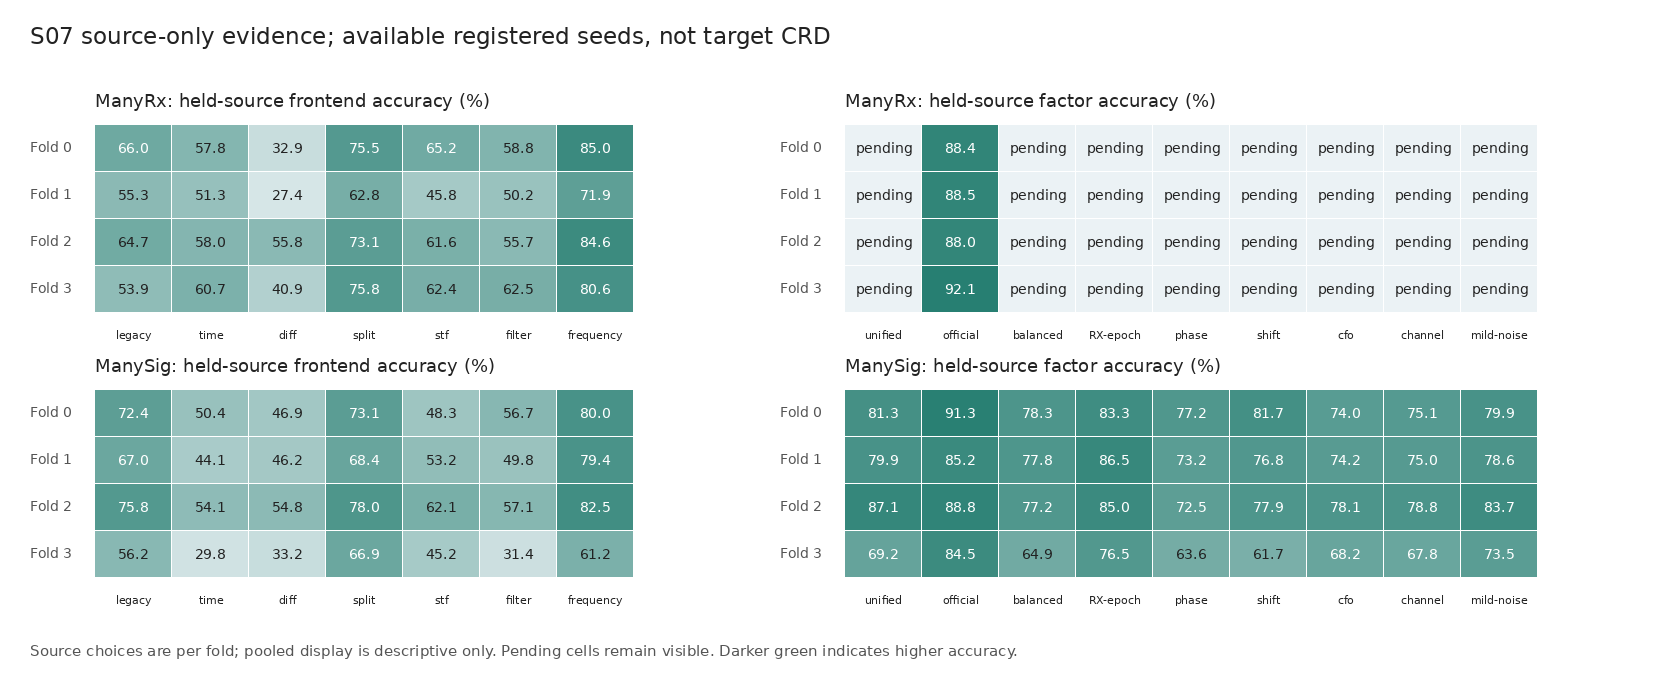
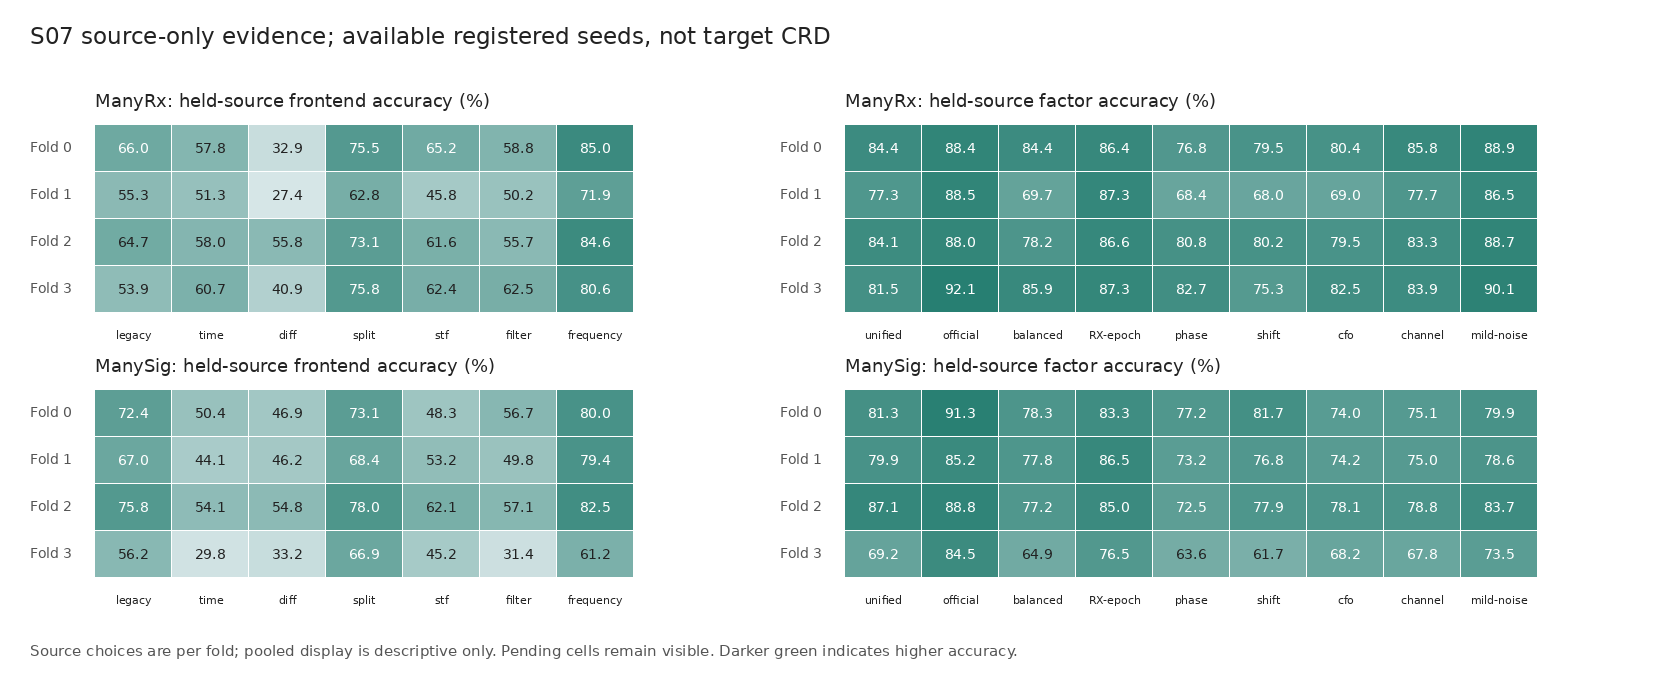
Record complete single-factor results and repeated recipe checks

Changed region(s): [[0.5837, 0.1853, 0.9524, 0.4632], [0.4916, 0.1853, 0.553, 0.4632]]

diff --git a/07-wifi-osu/S07_WIFI_TRAINING_RESULTS.md b/07-wifi-osu/S07_WIFI_TRAINING_RESULTS.md
@@ -1,15 +1,47 @@
 # S07_WIFI_TRAINING_RESULTS
 
-Completed 40/72 source fits. No new target RX metrics are used in this report.
+Completed 80/95 source fits. No new target RX metrics are used in this report.
 
 Fold-specific selections must only use that fold's legal source RX. The following table is descriptive, not a cross-fold selection rule.
 
 | Phase | Dataset | Fold | Seed | Frontend / factor | Packet val % | Held RX % | Worst RX % | Params |
 |---|---|---:|---:|---|---:|---:|---:|---:|
+| training | ManyRx | 0 | 3101 | frequency / unified | 94.48 | 84.40 | 69.56 | 90680 |
 | training | ManyRx | 0 | 3101 | frequency / official | 93.58 | 88.40 | 75.67 | 90680 |
+| training | ManyRx | 0 | 3101 | frequency / balanced | 94.33 | 84.38 | 67.78 | 90680 |
+| training | ManyRx | 0 | 3101 | frequency / held_epoch | 92.35 | 86.42 | 71.33 | 90680 |
+| training | ManyRx | 0 | 3101 | frequency / phase | 95.32 | 76.77 | 67.22 | 90680 |
+| training | ManyRx | 0 | 3101 | frequency / shift | 94.98 | 79.50 | 65.94 | 90680 |
+| training | ManyRx | 0 | 3101 | frequency / cfo | 94.72 | 80.38 | 65.72 | 90680 |
+| training | ManyRx | 0 | 3101 | frequency / channel | 94.16 | 85.83 | 73.17 | 90680 |
+| training | ManyRx | 0 | 3101 | frequency / mild_noise | 94.27 | 88.86 | 76.33 | 90680 |
+| training | ManyRx | 1 | 3101 | frequency / unified | 99.11 | 77.27 | 64.11 | 90680 |
 | training | ManyRx | 1 | 3101 | frequency / official | 97.79 | 88.53 | 75.83 | 90680 |
+| training | ManyRx | 1 | 3101 | frequency / balanced | 99.27 | 69.71 | 48.32 | 90680 |
+| training | ManyRx | 1 | 3101 | frequency / held_epoch | 97.08 | 87.27 | 70.11 | 90680 |
+| training | ManyRx | 1 | 3101 | frequency / phase | 99.48 | 68.37 | 52.95 | 90680 |
+| training | ManyRx | 1 | 3101 | frequency / shift | 99.30 | 67.97 | 58.63 | 90680 |
+| training | ManyRx | 1 | 3101 | frequency / cfo | 99.19 | 69.01 | 59.16 | 90680 |
+| training | ManyRx | 1 | 3101 | frequency / channel | 99.06 | 77.65 | 67.39 | 90680 |
+| training | ManyRx | 1 | 3101 | frequency / mild_noise | 98.76 | 86.54 | 69.78 | 90680 |
+| training | ManyRx | 2 | 3101 | frequency / unified | 94.95 | 84.14 | 72.00 | 90680 |
 | training | ManyRx | 2 | 3101 | frequency / official | 93.87 | 87.97 | 76.22 | 90680 |
+| training | ManyRx | 2 | 3101 | frequency / balanced | 95.17 | 78.15 | 65.00 | 90680 |
+| training | ManyRx | 2 | 3101 | frequency / held_epoch | 92.13 | 86.61 | 73.17 | 90680 |
+| training | ManyRx | 2 | 3101 | frequency / phase | 95.71 | 80.78 | 67.22 | 90680 |
+| training | ManyRx | 2 | 3101 | frequency / shift | 95.37 | 80.24 | 66.67 | 90680 |
+| training | ManyRx | 2 | 3101 | frequency / cfo | 95.21 | 79.53 | 61.44 | 90680 |
+| training | ManyRx | 2 | 3101 | frequency / channel | 94.87 | 83.27 | 69.17 | 90680 |
+| training | ManyRx | 2 | 3101 | frequency / mild_noise | 94.02 | 88.67 | 77.44 | 90680 |
+| training | ManyRx | 3 | 3101 | frequency / unified | 95.20 | 81.50 | 74.56 | 90680 |
 | training | ManyRx | 3 | 3101 | frequency / official | 93.99 | 92.11 | 86.25 | 90680 |
+| training | ManyRx | 3 | 3101 | frequency / balanced | 94.90 | 85.94 | 79.17 | 90680 |
+| training | ManyRx | 3 | 3101 | frequency / held_epoch | 92.28 | 87.30 | 83.20 | 90680 |
+| training | ManyRx | 3 | 3101 | frequency / phase | 95.66 | 82.65 | 78.60 | 90680 |
+| training | ManyRx | 3 | 3101 | frequency / shift | 95.76 | 75.30 | 60.83 | 90680 |
+| training | ManyRx | 3 | 3101 | frequency / cfo | 95.21 | 82.47 | 80.70 | 90680 |
+| training | ManyRx | 3 | 3101 | frequency / channel | 95.25 | 83.94 | 76.67 | 90680 |
+| training | ManyRx | 3 | 3101 | frequency / mild_noise | 94.85 | 90.07 | 86.33 | 90680 |
 | training | ManySig | 0 | 3101 | frequency / unified | 99.25 | 81.29 | 71.83 | 90420 |
 | training | ManySig | 0 | 3101 | frequency / official | 98.89 | 91.33 | 86.83 | 90420 |
 | training | ManySig | 0 | 3101 | frequency / balanced | 99.37 | 78.29 | 69.42 | 90420 |
@@ -46,3 +78,11 @@ Fold-specific selections must only use that fold's legal source RX. The followin
 | training | ManySig | 3 | 3101 | split / cfo | 99.64 | 68.25 | 62.67 | 142276 |
 | training | ManySig | 3 | 3101 | split / channel | 99.72 | 67.79 | 66.83 | 142276 |
 | training | ManySig | 3 | 3101 | split / mild_noise | 99.37 | 73.46 | 61.42 | 142276 |
+| training_replicate | ManyRx | 0 | 3102 | frequency / official | 93.64 | 87.72 | 75.56 | 90680 |
+| training_replicate | ManyRx | 1 | 3102 | frequency / official | 97.83 | 88.64 | 76.06 | 90680 |
+| training_replicate | ManyRx | 2 | 3102 | frequency / official | 94.24 | 87.74 | 77.33 | 90680 |
+| training_replicate | ManyRx | 3 | 3102 | frequency / official | 93.56 | 91.25 | 85.90 | 90680 |
+| training_replicate | ManySig | 0 | 3102 | frequency / official | 98.73 | 93.58 | 90.75 | 90420 |
+| training_replicate | ManySig | 1 | 3102 | frequency / official | 98.57 | 96.29 | 95.58 | 90420 |
+| training_replicate | ManySig | 2 | 3102 | frequency / official | 98.85 | 85.83 | 75.42 | 90420 |
+| training_replicate | ManySig | 3 | 3102 | split / official | 99.29 | 75.25 | 67.08 | 142276 |

diff --git a/07-wifi-osu/RESULTS.md b/07-wifi-osu/RESULTS.md
@@ -1,6 +1,6 @@
 # Stage 07 Results
 
-Generated 2026-10-25T23:37:06+08:00. WiSig INCOMPLETE. Source screening numbers are not CRD results.
+Generated 2026-10-26T00:06:37+08:00. WiSig INCOMPLETE. Source screening numbers are not CRD results.
 
 Baseline `ebe3225`, branch `exp/s07-wifi-osu`. S00-S06 are unchanged. No automatic merge, GitHub push, model-weight publication or target-driven extension.
 
@@ -10,8 +10,8 @@ Baseline `ebe3225`, branch `exp/s07-wifi-osu`. S00-S06 are unchanged. No automat
 |---|---:|---:|---:|---:|
 | features | 56 | 56 | 0 | 0 |
 | replicate | 23 | 23 | 0 | 0 |
-| training | 72 | 2 | 0 | 0 |
-| training_replicate | 0 | 0 | 0 | 0 |
+| training | 72 | 72 | 0 | 0 |
+| training_replicate | 23 | 8 | 0 | 0 |
 | combine | 0 | 0 | 0 | 0 |
 | final | 0 | 0 | 0 | 0 |
 | smoke | 14 | 14 | 0 | 0 |
